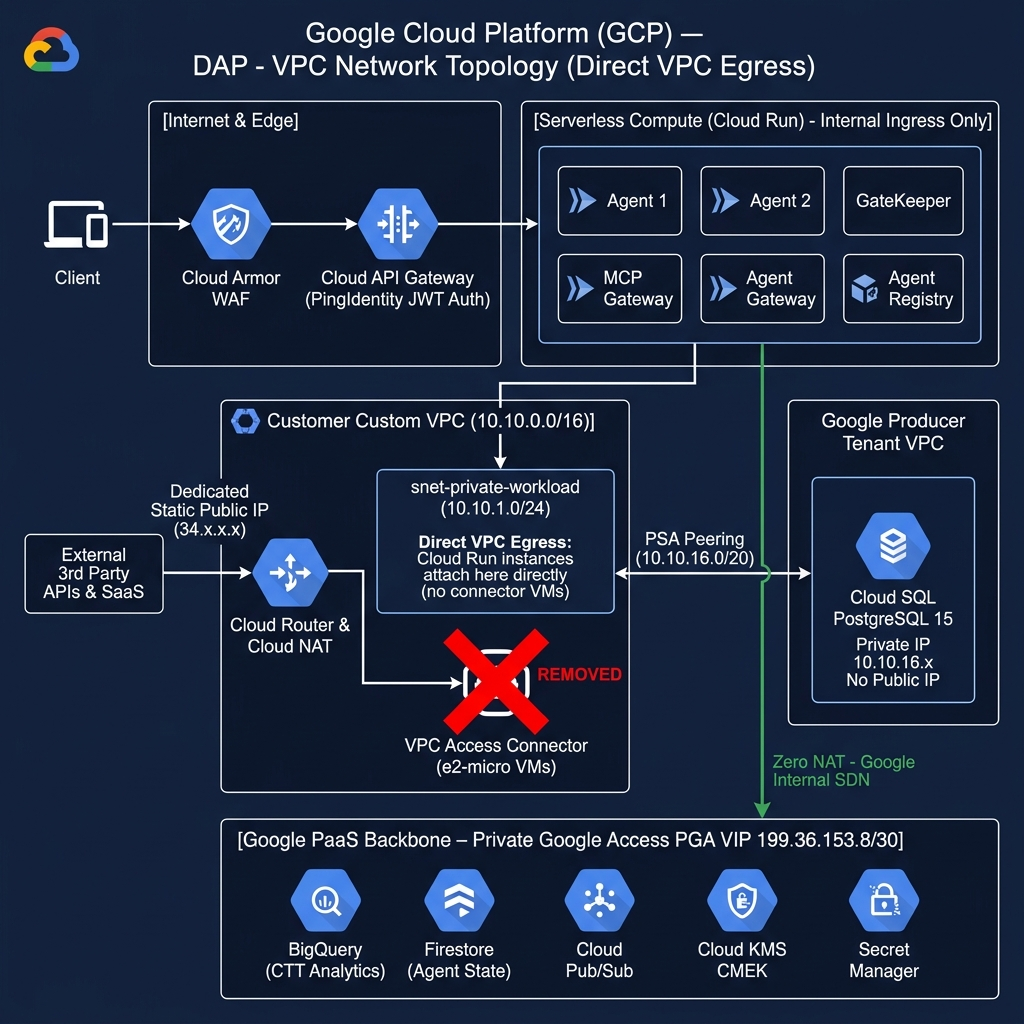
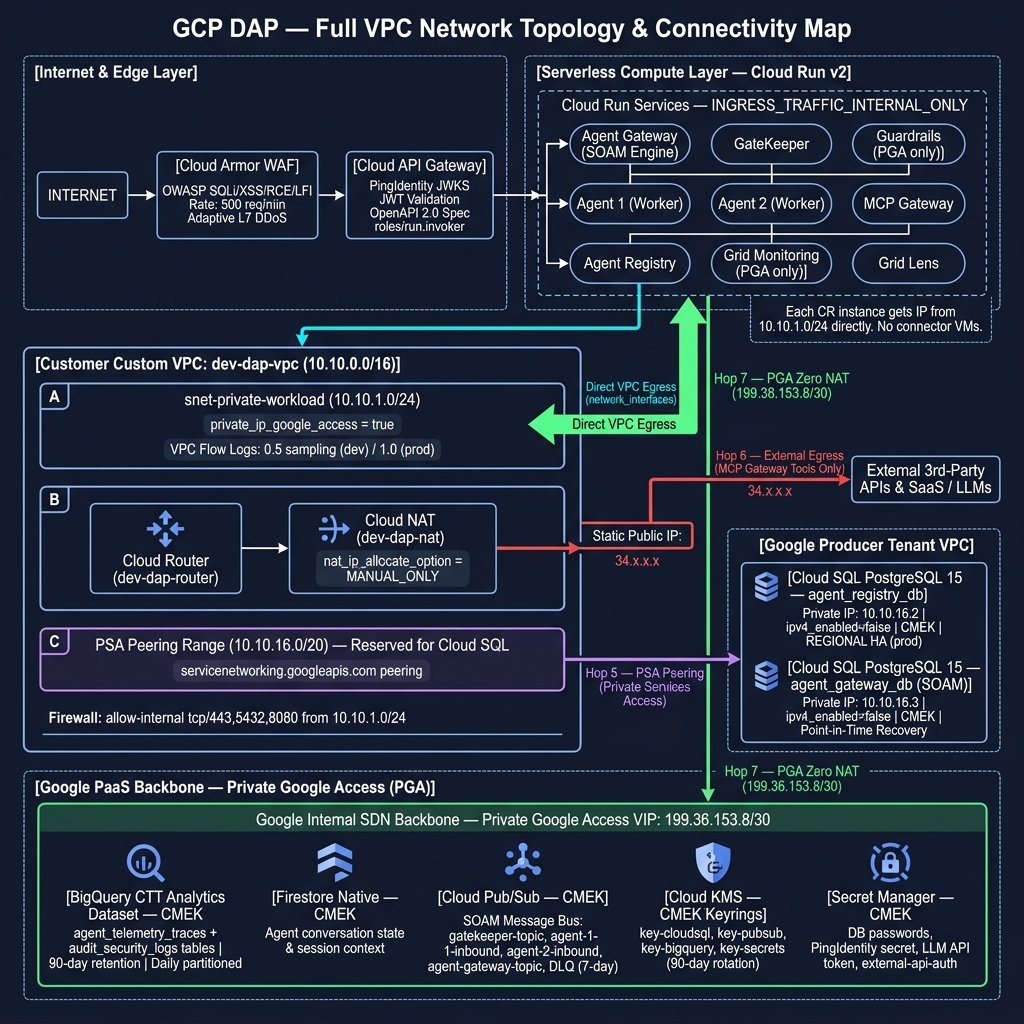
docs: add full-detail VPC connectivity diagram (Direct VPC Egress, PSA, PGA, NAT static IP) and complete SOAM architecture section with principles, lifecycle, and multi-agent collaboration flow

diff --git a/gcp/docs/ARCHITECTURE.md b/gcp/docs/ARCHITECTURE.md
@@ -4,6 +4,8 @@
 
 The **Digital Agent Platform (DAP)** is a production-grade, event-driven, multi-agent AI execution platform provisioned on **Google Cloud Platform (GCP)**. It decouples client ingestion, security guardrails, agent reasoning, tool execution, and observability into isolated, serverless microservices with zero public ingress and hardened network boundaries.
 
+The platform's core orchestration pattern is **SOAM (Service Oriented Agent Messaging)** — an async-first, event-driven architecture that enables robust, scalable, and auditable multi-agent task orchestration using Google Cloud Pub/Sub as the backbone message bus.
+
 ```text
                                       GOOGLE CLOUD DAP (Data & Agent Platform)
 +-------------------------------------------------------------------------------------------------------------------------+
@@ -18,10 +20,10 @@ The **Digital Agent Platform (DAP)** is a production-grade, event-driven, multi-
 |  | - Cloud Monitoring |   |     - Agent Registry Service       |     - Agent 1  <==>  Agent 1 Inbound Topic (Pub/Sub) |  |
 |  |                    |   |     - Agent Registry (Cloud SQL)   |     - Agent 2  <==>  Agent 2 Inbound Topic (Pub/Sub) |  |
 |  |                    |   +------------------------------------+-----------------------------------------------------+  |
-|  |                    |   | [4] AGENT BACKBONE & ORCHESTRATION (05_compute_services & 04_messaging)                  |  |
+|  |                    |   | [4] SOAM: AGENT BACKBONE & ORCHESTRATION (05_compute_services & 04_messaging)             |  |
+|  |                    |   |     - Agent Gateway (SOAM Engine)  — async Pub/Sub dispatch + sync fallback               |  |
 |  |                    |   |     - GateKeeper & GateKeeper Topic (Pub/Sub)  ==> CTT BigQuery (Analytics/Tracing)      |  |
 |  |                    |   |     - MCP Gateway (Model Context Protocol)     ==> External Enterprise APIs              |  |
-|  |                    |   |     - Agent Gateway & Topic (Cloud SQL / SOAM) ==> Routes to Agents & API Gateway        |  |
 |  |                    |   |     - Grid Monitoring & Grid Lens (Observability & Dashboard UI)                         |  |
 |  +--------------------+   +------------------------------------------------------------------------------------------+  |
 +-------------------------------------------------------------------------------------------------------------------------+
@@ -40,7 +42,7 @@ The **Digital Agent Platform (DAP)** is a production-grade, event-driven, multi-
 
 ## 2. GCP VPC Network Topology & Traffic Flows
 
-![GCP DAP VPC Network Topology](https://raw.githubusercontent.com/chaitanya-sharmaa/cloud-run/grunt/gcp/docs/gcp_vpc_network_diagram.png)
+![GCP DAP Full VPC Network Topology & Connectivity Map](https://raw.githubusercontent.com/chaitanya-sharmaa/cloud-run/grunt/gcp/docs/gcp_vpc_network_diagram.png)
 
 ### Key Network Boundaries:
 1. **Customer Custom VPC (`10.10.0.0/16`)**:
@@ -62,11 +64,11 @@ Even though compute (Cloud Run), storage (Firestore/BigQuery), and messaging (Pu
 
 1. 🔒 **Private Cloud SQL Access (Zero Public IP for DB)**:
    - Cloud SQL instances live inside Google's managed *Service Producer Tenant VPC*.
-   - Cloud Run cannot peer directly with Google's Tenant VPC. Instead, Cloud Run connects to the **Customer VPC** via a **Serverless VPC Access Connector**, which then transits across the **Private Services Access (PSA)** peering connection into the Tenant VPC (`10.10.16.x`). This guarantees that your relational database is never exposed to the public internet.
+   - Cloud Run cannot peer directly with Google's Tenant VPC. Instead, Cloud Run connects to the **Customer VPC** via **Direct VPC Egress**, which then transits across the **Private Services Access (PSA)** peering connection into the Tenant VPC (`10.10.16.x`). This guarantees that your relational database is never exposed to the public internet.
 
 2. 🛡 **Predictable Static Public IP for Outbound Tool Egress (Cloud NAT)**:
    - When AI Agents or the MCP Gateway invoke external enterprise APIs, SaaS tools, or partner systems, those third-party firewalls require **IP Allowlisting**.
-   - Default serverless Cloud Run egress uses dynamic, rotating Google public IP pools that cannot be allowlisted. By routing outbound traffic through the Customer VPC with **Cloud NAT**, all egress traffic exits via a single, dedicated **Static Elastic Public IP** (`34.x.x.x`).
+   - Default serverless Cloud Run egress uses dynamic, rotating Google public IP pools that cannot be allowlisted. By routing outbound traffic through the Customer VPC with **Cloud NAT** (`MANUAL_ONLY` static IP), all egress traffic exits via a single, dedicated **Static Elastic Public IP** (`34.x.x.x`).
 
 3. ⚡ **Private Google Access (PGA) Routing**:
    - The Customer VPC subnet enforces DNS resolution for `*.googleapis.com` to Google's Private VIPs (`199.36.153.8/30`), ensuring that all telemetry to BigQuery and state to Firestore stays strictly on Google's private software-defined network.
@@ -92,11 +94,11 @@ Even though compute (Cloud Run), storage (Firestore/BigQuery), and messaging (Pu
                                                 │
                                                 ├──(Hop 3: East-West Internal API Call)──► [gatekeeper] ──► [guardrails]
                                                 │
-                                                ├──(Hop 4: Serverless VPC Connector)──► [Customer VPC 10.10.0.0/16]
+                                                ├──(Hop 4: Direct VPC Egress)──► [snet-private-workload 10.10.1.0/24]
                                                 │                                            │
                                                 │                                            ├──(Hop 5: PSA Peering)──► [Cloud SQL PostgreSQL]
                                                 │                                            │
-                                                │                                            └──(Hop 6: Cloud NAT)──► [External MCP Tool APIs]
+                                                │                                            └──(Hop 6: Cloud NAT Static IP)──► [External MCP Tool APIs]
                                                 │
                                                 └──(Hop 7: Private Google Access / PGA)──► [BigQuery / Firestore / PubSub / KMS]
 ```
@@ -117,18 +119,18 @@ Even though compute (Cloud Run), storage (Firestore/BigQuery), and messaging (Pu
 * **What happens**: The `agent-gateway` routes tasks to `gatekeeper`, which calls `guardrails` for prompt safety analysis.
 * **Security Boundary**: All internal Cloud Run microservices are configured with `ingress = "INGRESS_TRAFFIC_INTERNAL_ONLY"`. Direct public access from the internet is blocked; only authorized calls carrying Google IAM tokens are permitted.
 
-#### 📍 Hop 4: Serverless-to-VPC Transition (Cloud Run ➔ VPC Access Connector)
-* **What happens**: When microservices need to reach a private IP (`10.10.16.x`), Cloud Run evaluates its `vpc_access` policy (`egress = "PRIVATE_RANGES_ONLY"`).
-* **The Bridge**: Cloud Run injects TCP packets into the dedicated **Serverless VPC Access Connector** instances in `snet-vpc-connector` (`10.10.2.0/28`), placing packets directly inside your Customer VPC.
+#### 📍 Hop 4: Direct VPC Egress (Cloud Run ➔ snet-private-workload)
+* **What happens**: When microservices need to reach a private IP (`10.10.16.x`), Cloud Run uses **Direct VPC Egress** — each instance is assigned an IP directly from `snet-private-workload` (`10.10.1.0/24`).
+* **No Proxy VMs**: Unlike the legacy VPC Access Connector (e2-micro VM fleet), Direct VPC Egress places packets directly inside the Customer VPC with zero intermediate proxy hops, eliminating the ~2ms connector overhead and the bottleneck failure domain.
 
 #### 📍 Hop 5: VPC to Cloud SQL (Customer VPC ➔ PSA Peering ➔ Cloud SQL)
-* **What happens**: Packets for PostgreSQL port `5432` leave the VPC Connector subnet and target the private IP of the database (`10.10.16.x`).
+* **What happens**: Packets for PostgreSQL port `5432` leave the VPC Egress subnet and target the private IP of the database (`10.10.16.x`).
 * **VPC Peering Transit**: Traffic traverses the **Private Services Access (PSA)** peering connection (`servicenetworking.googleapis.com`) into Google's Service Producer Tenant VPC.
 * **Zero Public Exposure**: Cloud SQL has `ipv4_enabled = false` and cannot be reached from the internet.
 
 #### 📍 Hop 6: Outbound Tool Egress (Cloud Run ➔ VPC ➔ Cloud NAT ➔ External APIs)
-* **What happens**: When `agent-1` or `mcp-gateway` executes an external tool against third-party enterprise REST APIs or LLMs, the egress packet routes through the VPC Connector into the VPC.
-* **NAT Translation**: The VPC's default route directs the packet through **Cloud Router** and **Cloud NAT**.
+* **What happens**: When `agent-1` or `mcp-gateway` executes an external tool against third-party enterprise REST APIs or LLMs, the egress packet routes through the VPC Egress subnet into the VPC.
+* **NAT Translation**: The VPC's default route directs the packet through **Cloud Router** and **Cloud NAT** (`nat_ip_allocate_option = "MANUAL_ONLY"`).
 * **Static Egress**: Cloud NAT translates the private IP into a single, predictable **Static Public IP**, allowing enterprise firewalls to whitelist DAP egress traffic.
 
 #### 📍 Hop 7: Private Google Access (Workload ➔ BigQuery / Firestore / KMS / Pub/Sub)
@@ -138,17 +140,157 @@ Even though compute (Cloud Run), storage (Firestore/BigQuery), and messaging (Pu
 
 ---
 
-## 4. Architecture Mapping to Terraform / Terragrunt Modules
+## 4. SOAM — Service Oriented Agent Messaging
+
+![SOAM Architecture](https://raw.githubusercontent.com/chaitanya-sharmaa/cloud-run/grunt/gcp/docs/soam_architecture_diagram.png)
+
+SOAM (**Service Oriented Agent Messaging**) is the core architectural pattern governing how the Digital Agent Platform (DAP) dispatches, validates, routes, and executes AI agent tasks at scale. It is the operational backbone of the `agent-gateway` service and the `04_messaging` Pub/Sub topology.
+
+---
+
+### 4.1 SOAM Core Principles
+
+| Principle | Description | DAP Implementation |
+| :--- | :--- | :--- |
+| **Async-First Dispatch** | All complex agent tasks are dispatched asynchronously via durable message queues — no blocking HTTP calls between orchestrator and agent workers | Pub/Sub push subscriptions (`agent-1-inbound`, `agent-2-inbound`) with OIDC-authenticated Cloud Run push endpoints |
+| **Sync Fallback for Lightweight Queries** | Simple, low-latency lookups bypass the full async pipeline and return synchronous HTTP responses | Agent Gateway evaluates request complexity and returns inline for registry lookups, health checks, and routing decisions |
+| **Event-Driven Decoupling** | The Agent Gateway is the **only** service that knows about the downstream agent topology. Agents do not know about each other. | Agent Gateway publishes to topics; agents subscribe and process independently |
+| **Mandatory Safety Gate** | Every task transiting the SOAM bus must pass through `GateKeeper` before reaching any agent | GateKeeper Topic → GateKeeper Service → Guardrails → Agent Inbound Topic (only after `PASS`) |
+| **Idempotent Task Delivery** | Tasks can be safely re-delivered without producing duplicate side effects | `ack_deadline_seconds = 300`, `dead_letter_policy.max_delivery_attempts = 5`, `retry_policy.minimum_backoff = "10s"` |
+| **Full Audit Traceability** | Every task ingested, dispatched, validated, and processed generates a structured trace event | GateKeeper writes `audit_security_logs` to BigQuery CTT; agents write `agent_telemetry_traces` |
+| **Multi-Agent Collaboration** | Agents can spawn sub-tasks and delegate them to peer agents via the same SOAM bus | Agent 1 publishes a subtask to `agent-2-inbound-topic` via Agent Gateway; Agent 2 processes it independently |
+
+---
+
+### 4.2 SOAM Message Lifecycle
+
+```text
+┌──────────────────────────────────────────────────────────────────────────────────────┐
+│                          SOAM TASK LIFECYCLE                                         │
+│                                                                                      │
+│  [Client Request]                                                                    │
+│        │                                                                             │
+│        ▼                                                                             │
+│  ┌─────────────────────────────────────────────┐                                    │
+│  │  Agent Gateway (SOAM Engine)                │                                    │
+│  │                                             │                                    │
+│  │  1. Parse & classify incoming request       │                                    │
+│  │  2. Enrich with session context (Cloud SQL) │                                    │
+│  │  3a. Lightweight? ──► Sync HTTP response    │                                    │
+│  │  3b. Complex task? ──► Publish to Pub/Sub   │                                    │
+│  └──────────────────────┬──────────────────────┘                                    │
+│                         │ PUBLISH                                                    │
+│                         ▼ (CMEK-encrypted message)                                  │
+│  ┌──────────────────────────────────────────────────────────────────────────────┐   │
+│  │  SOAM Message Bus — Pub/Sub (04_messaging)                                   │   │
+│  │                                                                              │   │
+│  │  [gatekeeper-topic] ──PUSH──► [GateKeeper Service]                          │   │
+│  │                                       │                                      │   │
+│  │                              ┌────────┴────────┐                             │   │
+│  │                         PASS │                 │ BLOCK                       │   │
+│  │                              ▼                 ▼                             │   │
+│  │              [agent-1-inbound-topic]   [audit_security_logs]                 │   │
+│  │              [agent-2-inbound-topic]   (BigQuery CTT)                        │   │
+│  │                                                                              │   │
+│  │  DLQ: max 5 retries → [dap-dlq-topic] (7-day retention for forensics)       │   │
+│  └─────────────────────────────┬────────────────────────────────────────────────┘  │
+│                                │ PUSH (OIDC token, 300s ack deadline)               │
+│                                ▼                                                    │
+│  ┌─────────────────────────────────────────────────────────────────────────────┐    │
+│  │  Agent Workspace (05_compute_services)                                       │   │
+│  │                                                                              │   │
+│  │  Agent 1 / Agent 2 (Cloud Run, min 1 instance)                               │   │
+│  │    │                                                                         │   │
+│  │    ├─ Load context ──────────────────────────────► Firestore (PGA)           │   │
+│  │    ├─ Resolve agent ────────────────────────────► Agent Registry (PSA/SQL)   │   │
+│  │    ├─ Execute tool ──► MCP Gateway ──► Cloud NAT ─► External APIs            │   │
+│  │    ├─ Delegate task ──► Agent Gateway ──► Agent 2 (SOAM multi-agent)        │   │
+│  │    └─ Stream telemetry ─────────────────────────► BigQuery CTT (PGA)         │   │
+│  └─────────────────────────────────────────────────────────────────────────────┘   │
+└──────────────────────────────────────────────────────────────────────────────────────┘
+```
+
+---
+
+### 4.3 SOAM Services & Their Roles
+
+| Service | SOAM Role | Cloud Run Ingress | VPC Access | State Store |
+| :--- | :--- | :--- | :--- | :--- |
+| **Agent Gateway** | **SOAM Engine** — entry point, task classifier, Pub/Sub publisher, multi-agent coordinator | `INTERNAL_ONLY` | Direct VPC Egress | Cloud SQL (`agent_gateway` DB) |
+| **GateKeeper** | **SOAM Safety Gate** — intercepts every message on the bus, runs prompt safety & scope checks | `INTERNAL_ONLY` | Direct VPC Egress | BigQuery CTT (audit log write) |
+| **Guardrails** | **SOAM Policy Engine** — content policy evaluation, called synchronously by GateKeeper | `INTERNAL_ONLY` | None (PGA only) | None |
+| **Agent 1 / Agent 2** | **SOAM Worker Agents** — pull tasks from inbound topics, execute LLM reasoning loops | `INTERNAL_ONLY` | Direct VPC Egress | Firestore (state) + Cloud SQL (registry) |
+| **Agent Registry** | **SOAM Service Discovery** — maps agent IDs to capabilities and Cloud Run URLs | `INTERNAL_ONLY` | Direct VPC Egress | Cloud SQL (`agent_registry` DB) |
+| **MCP Gateway** | **SOAM Tool Executor** — model context protocol proxy to external enterprise APIs | `INTERNAL_ONLY` | Direct VPC Egress + Cloud NAT | Secret Manager (API credentials) |
+| **Grid Monitoring** | **SOAM Telemetry Sink** — aggregates step-level traces and token usage | `INTERNAL_ONLY` | None (PGA only) | BigQuery CTT |
+| **Grid Lens** | **SOAM Observability UI** — admin dashboard for live request flows and agent health | `INTERNAL_LOAD_BALANCER` | None | BigQuery CTT (read) |
+
+---
+
+### 4.4 SOAM Pub/Sub Topic Topology
+
+```text
+   ┌─────────────────────────────────────────────────────────────┐
+   │            SOAM Message Bus (CMEK Encrypted Pub/Sub)        │
+   │                                                             │
+   │  [gatekeeper-topic]          → GateKeeper Push Sub          │
+   │  [agent-1-inbound-topic]     → Agent 1 Push Sub             │
+   │  [agent-2-inbound-topic]     → Agent 2 Push Sub             │
+   │  [agent-gateway-topic]       → Agent Gateway Pull Sub        │
+   │                                                             │
+   │  [dap-dlq-topic]             ← All subscriptions (DLQ)      │
+   │    (7-day retention, CMEK)                                   │
+   └─────────────────────────────────────────────────────────────┘
+
+   Per-Subscription Reliability Config:
+   ├── ack_deadline_seconds    = 300 (5 min for LLM reasoning)
+   ├── max_delivery_attempts   = 5
+   ├── minimum_backoff         = 10s
+   └── maximum_backoff         = 600s
+```
+
+---
+
+### 4.5 SOAM Multi-Agent Collaboration Flow
+
+When Agent 1's reasoning determines a task requires a different specialist (Agent 2):
+
+```text
+Agent 1 (Reasoning Loop)
+  │
+  ├── 1. Resolves Agent 2's capabilities via Agent Registry (Cloud SQL)
+  │
+  ├── 2. Publishes a sub-task message to Agent Gateway
+  │         {
+  │           "target_agent": "agent-2",
+  │           "parent_trace_id": "trace-xyz",
+  │           "task_payload": { ... }
+  │         }
+  │
+  └── 3. Agent Gateway validates + publishes to [agent-2-inbound-topic]
+              │
+              ▼
+         Agent 2 processes sub-task independently
+              │
+              └── Results written to shared Firestore session context
+                  (keyed by parent_trace_id for Agent 1 to read on next loop)
+```
+
+This pattern enables **horizontal multi-agent collaboration** without direct point-to-point coupling — agents communicate exclusively through the SOAM bus.
+
+---
+
+## 5. Architecture Mapping to Terraform / Terragrunt Modules
 
 The codebase is partitioned into 7 modular building blocks:
 
 ```mermaid
 flowchart TD
-    M1["01_networking\n• VPC & Subnets\n• Serverless VPC Connector\n• PSA Peering\n• Cloud NAT & Router\n• Cloud Armor WAF Policy"]
+    M1["01_networking\n• VPC & Subnets (Direct VPC Egress)\n• PSA Peering for Cloud SQL\n• Cloud NAT (Static IP MANUAL_ONLY)\n• Cloud Armor WAF Policy"]
     M2["02_security_iam\n• Service Accounts & IAM Roles\n• Cloud KMS CMEK Keys\n• Secret Manager Secrets"]
     M3["03_data_state\n• Cloud SQL PostgreSQL 15\n• Firestore Native Database\n• BigQuery CTT Dataset"]
-    M4["04_messaging\n• Pub/Sub Inbound Topics\n• Dead-Letter Queues (DLQ)\n• Push Subscriptions"]
-    M5["05_compute_services\n• Cloud Run v2 Microservices\n• Agent 1 & Agent 2\n• GateKeeper & Guardrails\n• MCP Gateway\n• Grid Monitoring & Lens"]
+    M4["04_messaging\n• SOAM Pub/Sub Topics\n• Dead-Letter Queues (DLQ)\n• CMEK-Encrypted Push Subscriptions"]
+    M5["05_compute_services\n• Cloud Run v2 (Direct VPC Egress)\n• SOAM Engine (Agent Gateway)\n• Agent 1 & Agent 2 Workers\n• GateKeeper & Guardrails\n• MCP Gateway"]
     M6["06_ingress_gateway\n• Google Cloud API Gateway\n• PingIdentity JWT OpenAPI Config"]
     M7["07_observability\n• 365-day Immutable Audit Log Bucket\n• Cloud Logging Sinks\n• Monitoring Alerts & Dashboards"]
 
@@ -167,17 +309,17 @@ flowchart TD
 
 | Module | Code Location | Resources Provisioned | Security Controls |
 | :--- | :--- | :--- | :--- |
-| **01_networking** | `modules/01_networking/` | VPC, Subnets, VPC Access Connector, PSA Peering, Cloud Router, Cloud NAT, Cloud Armor | Edge DDoS/WAF protection, private RFC 1918 addressing |
+| **01_networking** | `modules/01_networking/` | VPC, Private Subnet (Direct VPC Egress), PSA Peering, Cloud Router, Cloud NAT (static MANUAL_ONLY IP), Cloud Armor | Edge DDoS/WAF protection, no connector VMs, private RFC 1918 addressing |
 | **02_security_iam** | `modules/02_security_iam/` | Dedicated SAs (`sa-agent-1`, `sa-gatekeeper`, etc.), Cloud KMS Keyrings/Keys, Secret Manager | Least-privilege IAM, envelope encryption with CMEK |
-| **03_data_state** | `modules/03_data_state/` | Private Cloud SQL (Postgres 15), Firestore Native, BigQuery CTT Telemetry Dataset | Private IP only, KMS disk encryption, PGA transit |
-| **04_messaging** | `modules/04_messaging/` | Pub/Sub Topics (`agent-1-inbound`, `gatekeeper-inbound`), Dead Letter Queues, IAM Push Subs | Message acknowledgement deadlines, DLQ retry policies |
-| **05_compute_services** | `modules/05_compute_services/` | Cloud Run v2 services (`agent-1`, `agent-2`, `agent-gateway`, `gatekeeper`, `mcp-gateway`, `guardrails`, `grid-monitoring`, `grid-lens`) | `INGRESS_TRAFFIC_INTERNAL_ONLY`, VPC connector attachment |
+| **03_data_state** | `modules/03_data_state/` | Private Cloud SQL (Postgres 15 × 2: Registry + SOAM Gateway DB), Firestore Native, BigQuery CTT Telemetry Dataset | Private IP only, KMS disk encryption, PGA transit |
+| **04_messaging** | `modules/04_messaging/` | SOAM Pub/Sub Topics (`agent-1-inbound`, `agent-2-inbound`, `gatekeeper-topic`, `agent-gateway-topic`), DLQ, CMEK Push Subs | OIDC auth, 5-retry DLQ, 10s-600s backoff |
+| **05_compute_services** | `modules/05_compute_services/` | Cloud Run v2 services (9 microservices, Direct VPC Egress, `INGRESS_TRAFFIC_INTERNAL_ONLY`, `min_instance_count ≥ 1`) | SOAM role separation, OIDC Pub/Sub push auth |
 | **06_ingress_gateway** | `modules/06_ingress_gateway/` | Google Cloud API Gateway, API Config, OpenAPI Specs with PingIdentity JWT security definitions | OAuth2/OIDC JWT validation, rate limiting |
 | **07_observability** | `modules/07_observability/` | Cloud Storage Audit Bucket (365-day retention, Object Lock), Cloud Logging Sink, Alert Policies | Immutable compliance audit trails, operational metrics |
 
 ---
 
-## 5. End-to-End Execution Flow (Interview Talking Points)
+## 6. End-to-End Execution Flow
 
 ```text
 [Client Request]
@@ -189,44 +331,53 @@ flowchart TD
 2. API Gateway (Validates PingIdentity JWT Token)
        │
        ▼
-3. Agent Gateway (Cloud Run)
+3. Agent Gateway — SOAM Engine (Cloud Run)
        │
-       ├──► Publishes to GateKeeper Topic (Pub/Sub)
-       │         │
-       │         ▼
-       │    4. GateKeeper (Cloud Run)
-       │         │
-       │         ├──► Validates Safety with Guardrails
-       │         ▼
-       │    5. Pushes to Agent Inbound Topic (Pub/Sub)
+       ├── Lightweight query? ──► Sync response (no Pub/Sub)
        │
-       ▼
-6. Agent 1 (Cloud Run Reasoning Engine)
-       │
-       ├──► Loads conversation memory from Firestore (via PGA)
-       ├──► Queries Agent Registry DB (Cloud SQL via PSA Peering)
-       ├──► Executes external tool via MCP Gateway (via Cloud NAT)
-       └──► Streams token telemetry to BigQuery (via PGA)
-       │
-       ▼
-7. Response routed back to Client via Agent Gateway & API Gateway
+       └── Complex task? ──► Publish to [gatekeeper-topic]
+                                   │
+                                   ▼
+                        4. GateKeeper + Guardrails (Safety Validation)
+                                   │
+                              PASS │        BLOCK ──► audit_security_logs (BigQuery)
+                                   ▼
+                        Publish to [agent-1-inbound-topic]
+                                   │
+                                   ▼
+                        5. Agent 1 (Cloud Run Reasoning Worker)
+                                   │
+                                   ├──► Loads context from Firestore (PGA)
+                                   ├──► Queries Agent Registry DB (PSA/Cloud SQL)
+                                   ├──► Tool call via MCP Gateway → Cloud NAT → External APIs
+                                   ├──► Multi-agent delegation → Agent 2 (via SOAM bus)
+                                   └──► Streams telemetry → BigQuery CTT (PGA)
+                                   │
+                                   ▼
+                        6. Response via Agent Gateway & API Gateway → Client
 ```
+
+### Execution Steps in Detail:
 
 1. **Request Ingestion**:
    * A client sends a request to the **API Gateway** through **Cloud Armor WAF**.
-   * The API Gateway verifies the JWT against **PingIdentity's JWKS** endpoint and routes the request to **Agent Gateway**.
+   * The API Gateway verifies the JWT against **PingIdentity's JWKS** endpoint and routes the request to **Agent Gateway** (SOAM Engine).
 
-2. **Security Inspection**:
-   * The **Agent Gateway** publishes the task to **GateKeeper Topic**.
-   * **GateKeeper** validates payload safety with **Guardrails** and pushes clean tasks to the **Agent Inbound Topic**.
+2. **SOAM Dispatch Decision**:
+   * The **Agent Gateway** classifies the request. Lightweight queries (health, registry lookups) return synchronously.
+   * Complex AI tasks are published to the **GateKeeper Pub/Sub Topic** (SOAM async path).
 
-3. **Agent Reasoning & Execution**:
-   * **Agent 1** pulls the message, loads conversation context from **Firestore**, and prompts the **LLM API (Vertex AI)**.
+3. **SOAM Safety Gate**:
+   * **GateKeeper** validates payload safety with **Guardrails** (prompt injection, scope, content policy).
+   * Blocked requests are logged to `audit_security_logs` in BigQuery CTT. Passed requests are forwarded to the appropriate **Agent Inbound Topic**.
+
+4. **Agent Reasoning & Execution**:
+   * **Agent 1** pulls the task, loads conversation context from **Firestore**, and calls the LLM (Vertex AI via PGA).
    * If a tool is required, Agent 1 calls **MCP Gateway**, which executes the tool against the **External API** using credentials from **Secret Manager**.
 
-4. **Multi-Agent Collaboration**:
-   * Agent 1 queries the **Agent Registry** to resolve **Agent 2**, and delegates subtasks via the Agent Gateway.
+5. **Multi-Agent Collaboration**:
+   * Agent 1 queries the **Agent Registry** to resolve **Agent 2**, and delegates subtasks back through the **SOAM bus** (Agent Gateway → `agent-2-inbound-topic`).
 
-5. **Telemetry & Audit**:
-   * Step latency and token consumption are pushed to **Grid Monitoring** and archived in **CTT BigQuery**.
+6. **Telemetry & Audit**:
+   * Step latency and token consumption are pushed to **Grid Monitoring** and archived in **CTT BigQuery** (`agent_telemetry_traces` table).
    * Admins inspect live telemetry and request flows in **Grid Lens**.
